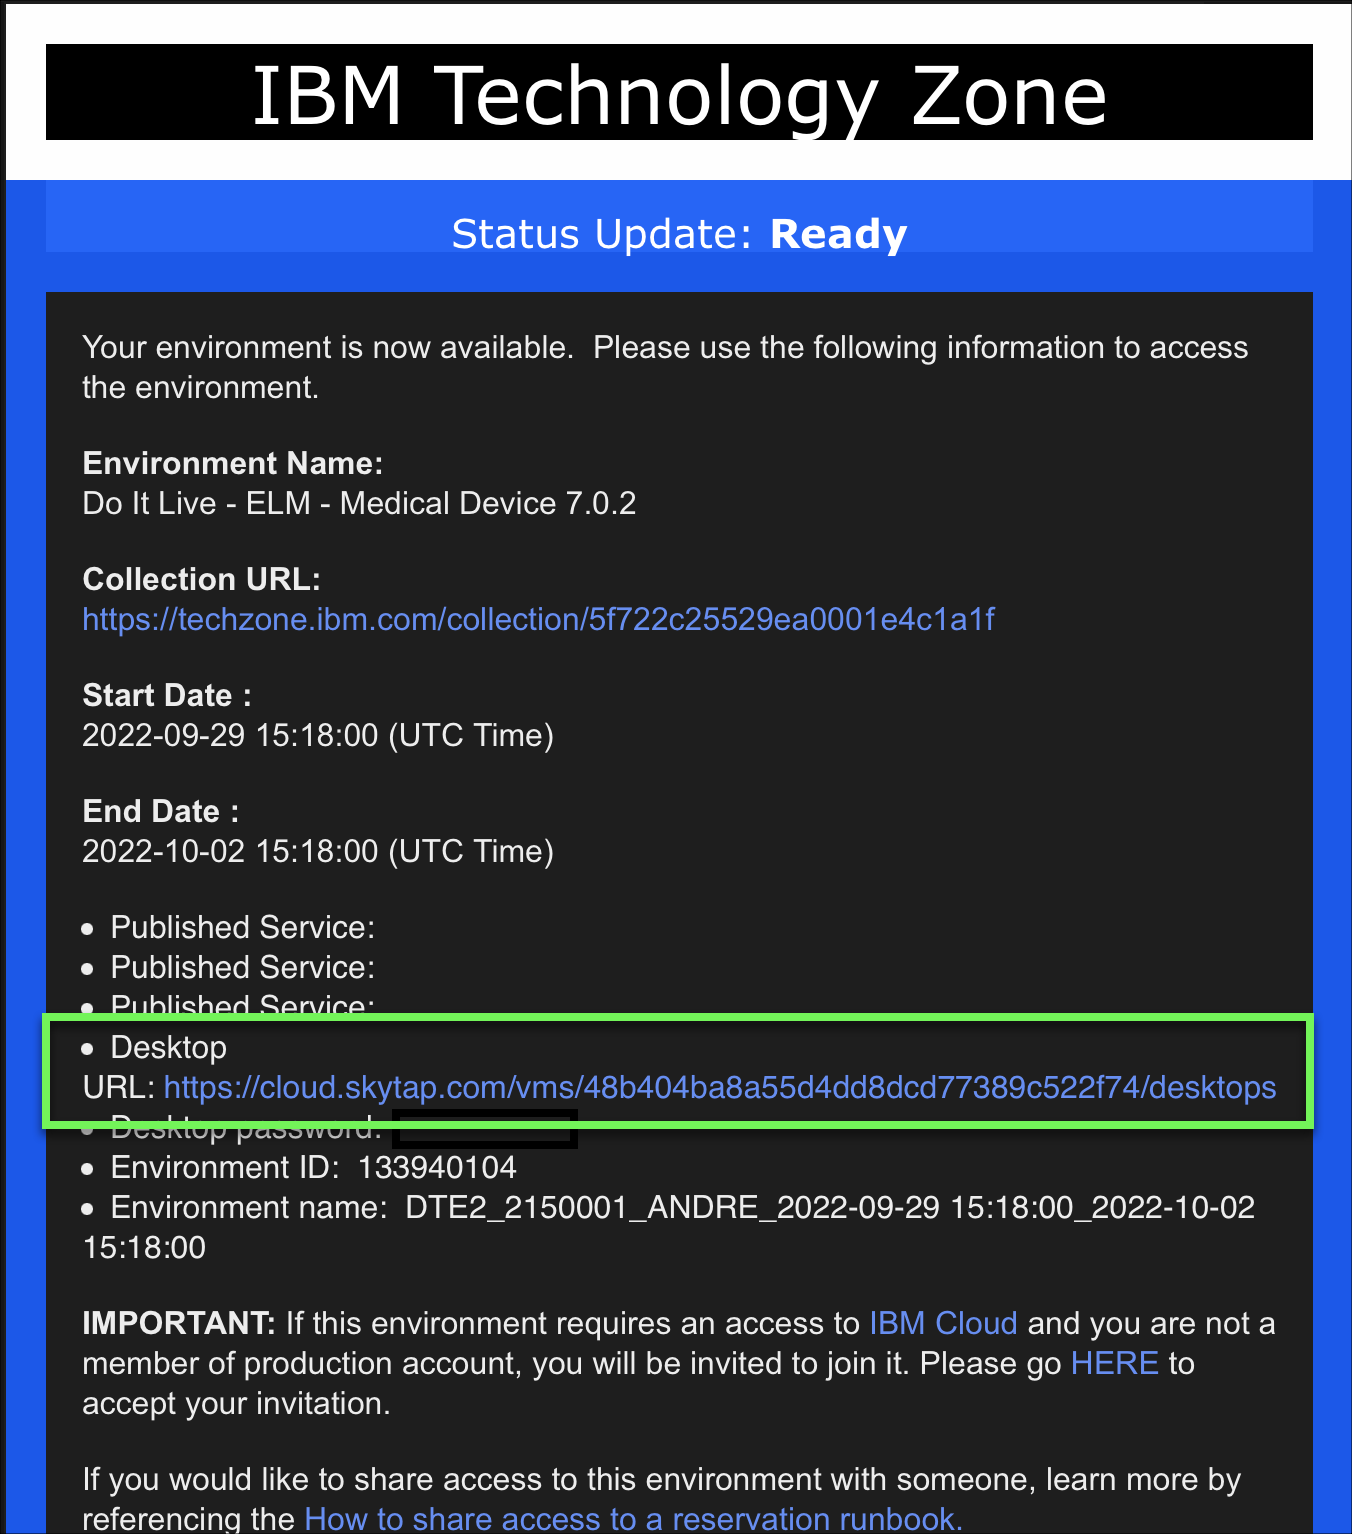
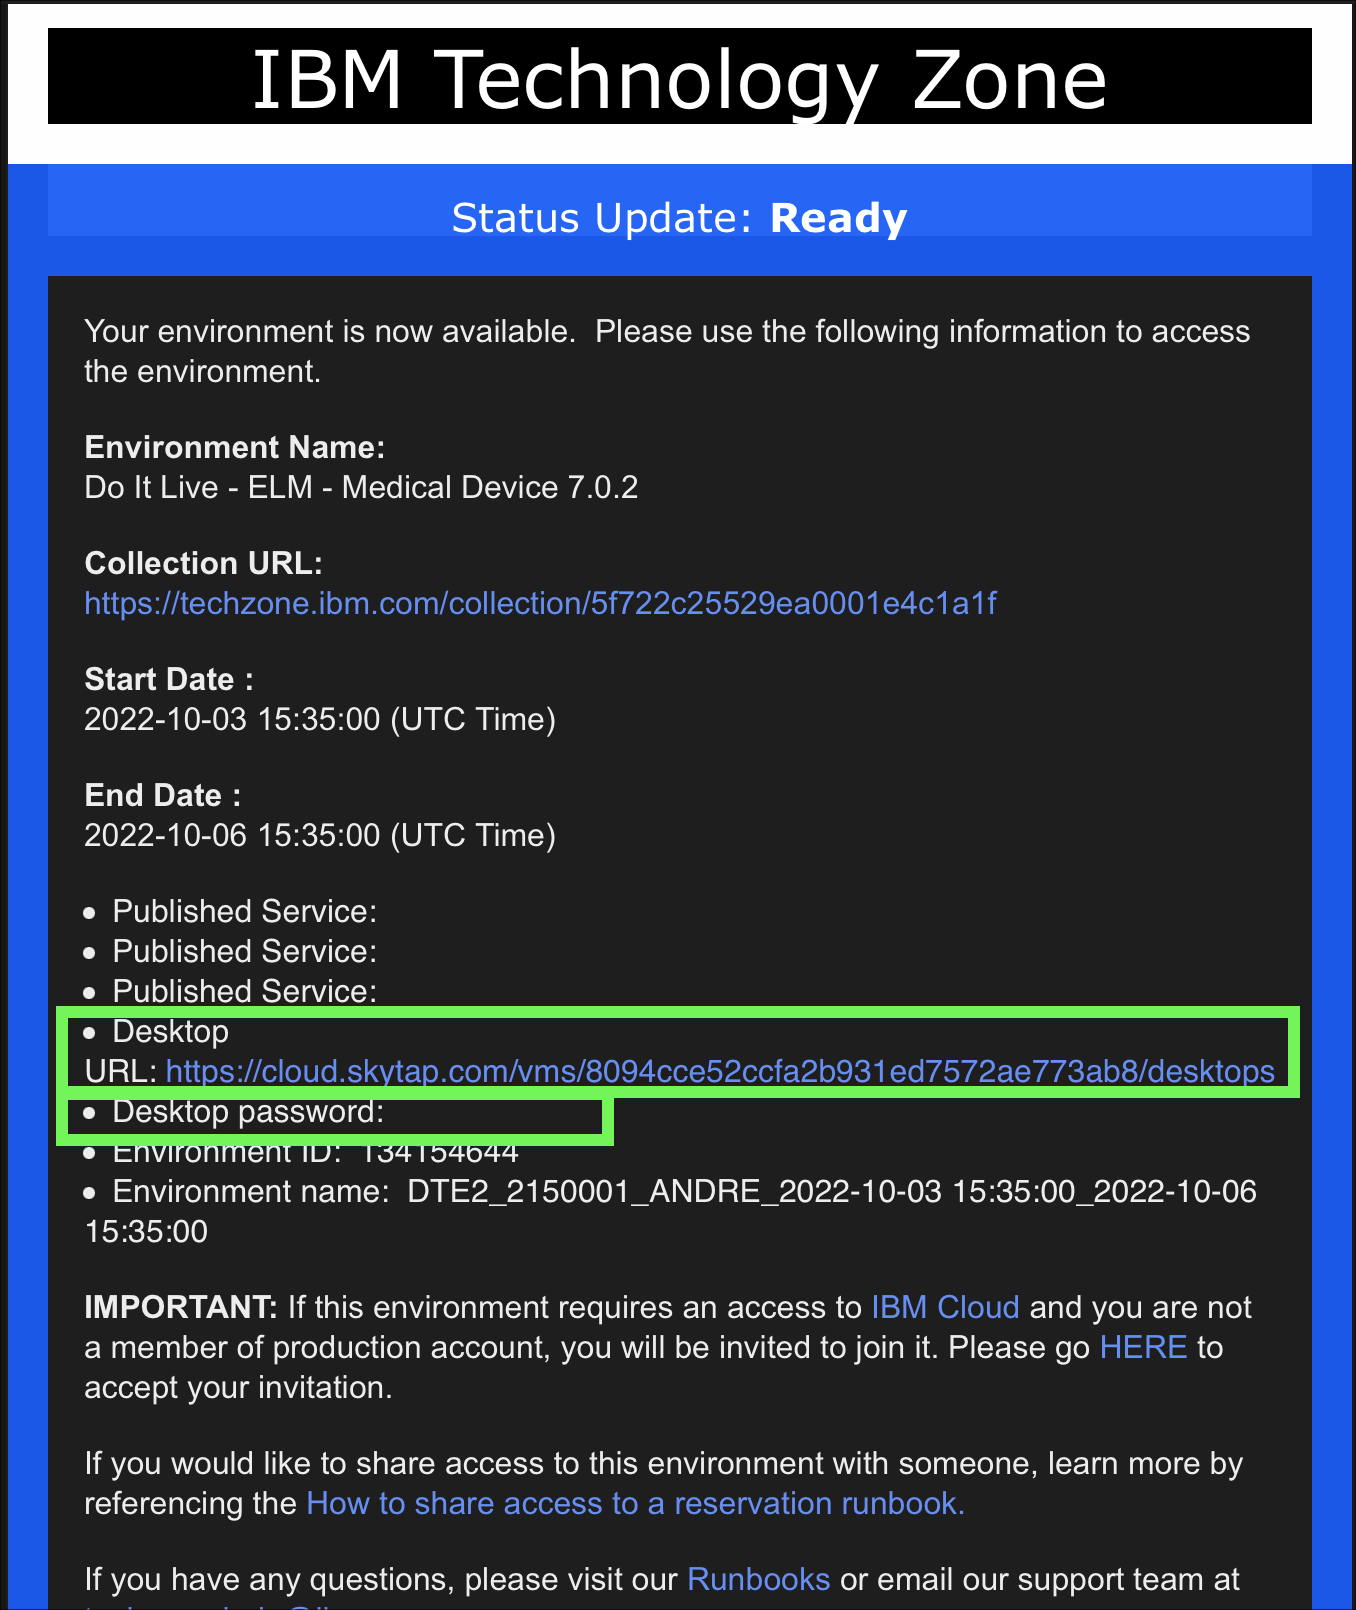
initial drafts

Changed region(s): [[0.0, 0.0, 1.0, 1.0], [0.3728, 0.5515, 0.4038, 0.5821]]

diff --git a/docs/Part 2/01 DesignPlanning.md b/docs/Part 2/01 DesignPlanning.md
@@ -1,0 +1,100 @@
+This demonstration flow is organized around the development process described in <a href="https://www.iso.org/standard/59752.html" target="_blank">ISO 13485</a> and <a href="https://www.iso.org/standard/72704.html" target="_blank">ISO 14971</a> for risk management.
+
+!!! hint
+    Prior to performing a client facing demonstration, it is beneficial to run through all the steps of the demonstration prior to doing so in front of the client. Doing so will cache all the web pages which will save a significant amount of load time. This will improve the performance of the environment and alleviate any awkward moments waiting for pages to load.
+
+!!! quote "Sample narration"
+    In this demonstration we’ll see how an infusion pump was engineered using the IBM ELM solution, in alignment with industry standards like ISO13485 and IEC 62304 for development and ISO 14971 for risk management. We’ll break the demo up into four acts:
+
+    Starting with Design Planning. Here we’ll get an introduction to the platform and take a look at how the development work for our Infusion Pump is planned and tracked.
+
+    Then we’ll take a look at Product Requirements where we’ll see some of the key capabilities around requirements management including traceability and audit trails.
+
+    After that we’ll move on to Design Input where we’ll see how customer requirements are traced down to system requirements, how those requirements are checked for quality and reviewed for correctness and how we create baselines with electronic signatures. We’ll also see how we can perform risk management activities.
+
+    After that we’ll move to Design Output where we’ll see Design Verification to prove coverage of the requirements by the design and Design Validation where we’ll show test coverage, test execution and defect tracking.
+
+The following steps provide an overview of the ELM dashboard and the concept of "dash boarding".
+
+1. Click the **Design Planning** tab on the **Infusion Pump Requirements Project Dashboard**.
+
+![](_attachments/Dashboard-main-to-DesignPlanning.png)
+
+2. Click the **IEC62304 Practice Content** link in the **Useful Links** widget.
+
+![](_attachments/Dashboard-DesignPlanning.png)
+
+Notice a new browser tab is opened.
+
+3. Click the **IEC62304** option in left-hand sidebar.
+
+![](_attachments/Dashboard-DesignPlanning-Menu.png)
+
+4. Click the **+** next to **IEC 62304 Objectives** to expand the section.
+
+![](_attachments/Dashboard-DesignPlanning-Menu2.png)
+
+5. Click **IEC 62304 SW Development Process**.
+
+![](_attachments/Dashboard-DesignPlanning-Menu3.png)
+
+6. Click the **Objective 5.7.1** link in the detailed list in main window.
+
+Note: scroll down if **Objective 5.7.1** is not visible in the list.
+
+![](_attachments/Dashboard-DesignPlanning-SWDevelopmentProcess.png)
+
+!!! quote "Sample narration"
+    The detailed guidance in the delivery process is mapped to the Objectives in the standard, helping engineers to conform to the standard by meeting those objectives.
+
+7. Click the **Develop Test Cases** link.
+
+![](_attachments/Dashboard-DesignPlanning-Objective571.png)
+
+8. Explore the **Develop Test Cases** task.
+
+Notice the **roles** associated with the task, the **detailed guidance steps**, and additional information links like **Tool Mentors** (scroll down as required).
+
+9. Close the **Medical Devices** browser tab by clicking the **X** and return to the **Requirements Management (RM)** browser tab.
+
+![](_attachments/Dashboard-DesignPlanning-CloseTab.png)
+
+Now is a good time to explore the other widgets on the **Design Planning** tab of the **Infusion Pump Requirements Project Dashboard**.
+
+10. Click the **Solution Roadmap** widget title.
+
+![](_attachments/Dashboard-DesignPlanning-SolutionRoadmapWidget.png)
+
+11. Notice the **Epics** defined as work items on the roadmap.
+12. Click the ![](_attachments/ExpandIcon.png) next to the **Deliver an external infusion pump** work item.
+
+![](_attachments/Dashboard-DesignPlanning-SolutionRoadmap-Summary.png)
+
+13. Notice the items with the **Work Item Type** equal to **Capability**.
+
+14. Click the ![](_attachments/ExpandIcon.png) next to the **Deliver Therapy** **Capability**.
+
+![](_attachments/Dashboard-DesignPlanning-SolutionRoadmap-SummaryExpanded.png)
+
+15. Notice the items with the **Work Item Type** equal to **Feature**.
+16. Click the ![](_attachments/ExpandIcon.png) next to the **Initiate drub infusion** **Feature**.
+
+![](_attachments/Dashboard-DesignPlanning-SolutionRoadmap-InitiateDrugInfusion-1.png)
+
+17. Notice the items with the **Work Item Type** equal to **Story**.
+18. Notice the **Planned For** column.
+
+![](_attachments/Dashboard-DesignPlanning-SolutionRoadmap-InitiateDrugInfusion-2.png)
+
+19. Select **Roadmap with Tasks** in the **View As** pull-down menu.
+
+![](_attachments/Dashboard-DesignPlanning-SolutionRoadmap-ViewAsMenu.png)
+
+??? tip "Birds-eye view"
+   ![](_attachments/Dashboard-DesignPlanning-SolutionRoadmap-ViewAs-BEV.png)
+
+20. Notice the detailed  under **Initiate drug infusion** with **Work Item Type** of **Task** and **Story**.
+
+![](_attachments/Dashboard-DesignPlanning-SolutionRoadmap-ViewDetails.png)
+
+In Act 2, explore how **Project Requirements** are tracked in ELM.

diff --git a/docs/Part 1/02 DemoPreparation.md b/docs/Part 1/02 DemoPreparation.md
@@ -6,6 +6,10 @@ The following steps must be performed before delivering the demonstration. These
 
 ![](_attachments/TZURL.png)
 
+If prompted for a **Virtual machine access** password like in the image below, enter the **Desktop password** specified in the IBM Technology Zone email with the subject line "Your environment is ready" (highlighted in the above image) and click **Submit**.
+
+![](_attachments/TZVMPassword.png)
+
 2. Click the **play** button to start the demonstration virtual machine (VM).
 
 ![](_attachments/TZVM.png)
@@ -16,6 +20,63 @@ Wait until the VM changes from **Busy** to **Running** before proceeding.
 
 ![](_attachments/TZVMReady.png)
 
-4.
+4. Click anywhere on the background to display the Administrator login prompt.
+5. Log into Microsoft Windows using the ID: **Administrator** and Password: **{{tz_environment.adminPW}}.
 
-Log into Windows as Administrator (the password is il0vedem0s). The Jazz Team Servers are set to auto-start when Windows starts up, but they will take a few minutes before they are ready.
+![](_attachments/AdminLogin.png)
+
+Note: the password contains two zero's and not capital Os.
+
+The Jazz Servers are set to auto-start when Windows starts up, but they will take a few minutes before they are ready.
+
+6. Click the **Chrome** browser icon ![](_attachments/ChromeIcon.png) on the taskbar at bottom of screen.
+
+![](_attachments/WindowsTaskBar.png)
+
+7. Click the Chrome bookmark **Project Dashboards** and select the **Infusion Pump** bookmark.
+
+![](_attachments/ChromeBookmark.png)
+
+!!! important
+    All user names and passwords have been cached in the Chrome browser. This demonstration uses the **susan** user ID.
+
+8. Click inside the User ID field and select **susan** from the list of users.
+
+![](_attachments/SelectUser.png)
+
+9. Click the **Log In** button.
+
+![](_attachments/LoginIn.png)
+
+The **Infusion Pump** demonstration dashboard is built of many different **widgets** as seen in the image below. When first loaded, some of the widgets may return an error (e.g. Error 400). This is expected and will be resolved later.
+
+![](_attachments/WidgetError.png)
+
+10. Click the **Mini Dashboard** icon ![](attachments/MiniDashboardIcon.png) at top left of the **Infusion Pump** dashboard.
+
+??? tip "Birds-eye view"
+   ![](_attachments/Dashboard-MiniDashboard.png)
+
+11. Click the **Log in** button in the **IBM Engineering Requirements XXXX** widget in the **Mini Dashboard**.
+
+![](_attachments/SignInMiniDashboard.png)
+
+A new browser tab will open.
+
+12. Click the **Sign in** button.
+
+The **Username** and **Password** fields are pre-populated with the **susanreq** ID and password. Do not change these fields.
+
+![](_attachments/LoginMiniDashboard.png)
+
+13. Close the web browser tab that was opened.
+
+![](_attachments/CloseBrowserTab.png)
+
+14. Click anywhere on dashboard to hide the **Mini Dashboard**.
+
+![](_attachments/CompleteDashboard.png)
+
+<!-- At this point the **Infusion Pump** dashboard should be fully loaded with out errors.  If not, wait a minute and click the browser refresh icon ![](_attachments/ChromeRefresh.png). Repeat if necessary. -->
+
+In **Act 1**, begin the journey to learn how to demonstrate IBM Engineering Lifecycle Management (ELM).  Note, this is not a deep dive into IBM ELM, rather a brief overview of some of the major capabilities and benefits.

diff --git a/docs/index.md b/docs/index.md
@@ -32,7 +32,7 @@ Before jumping to part 1, please read the guidance below. Reading and understand
 
 The {{guide.name}} is organized in parts and sub-parts or chapters. Most chapters contain numbered steps, which are actions to be performed.
 
-Throughout the guide, images are used as examples of the IBM Cloud Portal and IBM Cloud Shell.
+Throughout the guide, images are used to help guide students through the demonstration.
 
 !!! warning
     The {{offering.name}} user interface changes on a regular basis. Images captured in this guide may differ from the live demonstration environment in TechZone.
@@ -58,6 +58,11 @@ To assist in navigating the browser-based user interface (UI), a **birds-eye vie
 - Copy to clipboard box: The text is copied to the clipboard. Click the copy icon (highlighted below) and then paste using the operating systems paste function, for example, entering ++ctrl++**+v**, ++cmd++**+v**, or right-click and select paste.
 
 ![](_attachments/Usage-Clipboard.png)
+
+Additionally, throughout the demonstration guide there are sample narration scripts. The short narratives can be utilized when performing client facing demonstrations.
+
+!!! quote "Sample narration"
+    In this demonstration we’ll see how an infusion pump was engineered using the IBM ELM solution, in alignment with industry standards like ISO13485 and IEC 62304 for development and ISO 14971 for risk management. We’ll break the demo up into four acts...
 
 <!-- Additionally, there are several "click-thru" demonstrations. Links to click-thru demonstrations will open in a new browser window or tab with a screen similar to the image below.
 
